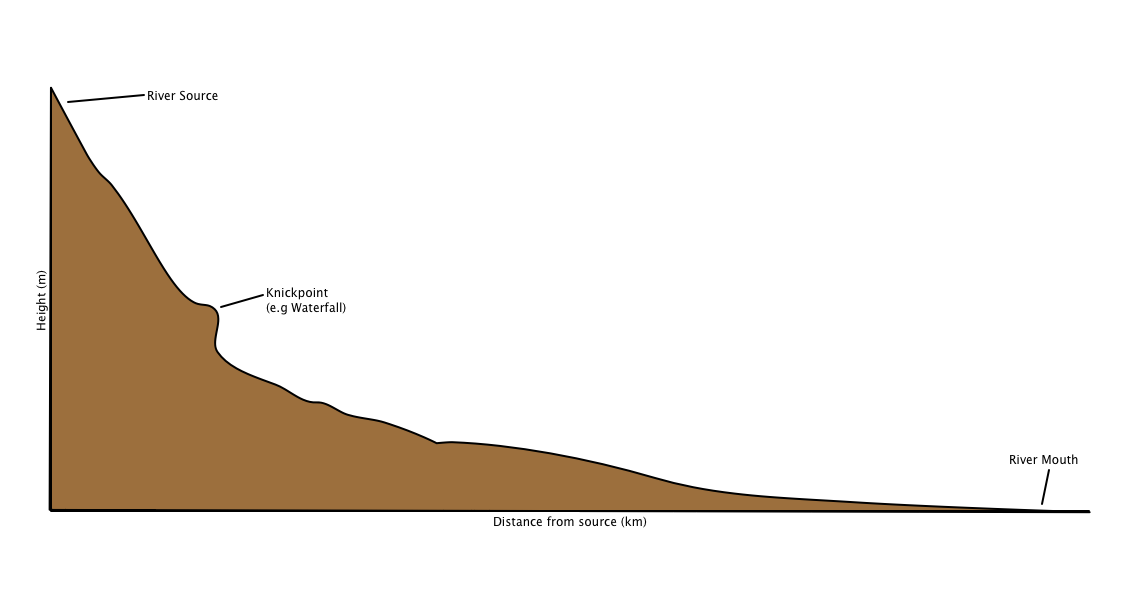
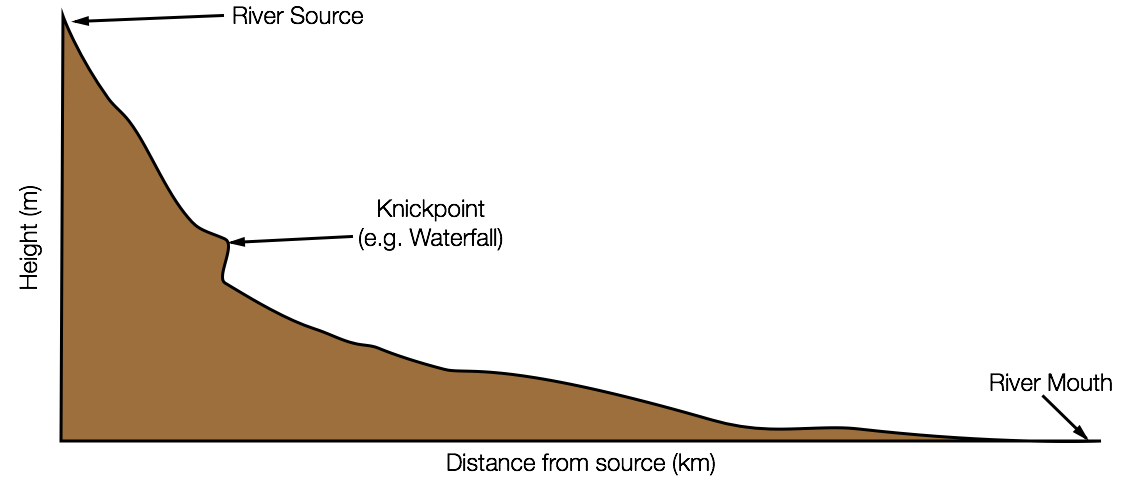
Converted long profile diagram to SVG.

Changed region(s): [[0.0, 0.0, 0.9825, 0.9917], [0.2149, 0.6198, 0.2456, 0.6508]]

diff --git a/_posts/riversAndFlooding/2012-01-04-long-and-cross-profiles.md b/_posts/riversAndFlooding/2012-01-04-long-and-cross-profiles.md
@@ -99,7 +99,7 @@ The velocity at different points in a channel’s cross section can be illustrat
 [river-processes-page]: /rivers/river-processes/
 [erosion-features-page-meanders]: /rivers/river-landforms/#meanders
 
-[river-long-profile]: /Images/rivers/long-profile-diagram.png
+[river-long-profile]: /Images/rivers/long-profile-diagram.svg
 [river-graded-profile]: /Images/rivers/graded-profile-diagram.svg
 [upper-course-x-section]: /Images/rivers/upper-course-cross-section.svg
 [middle-course-x-section]: /Images/rivers/middle-course-cross-section.svg
